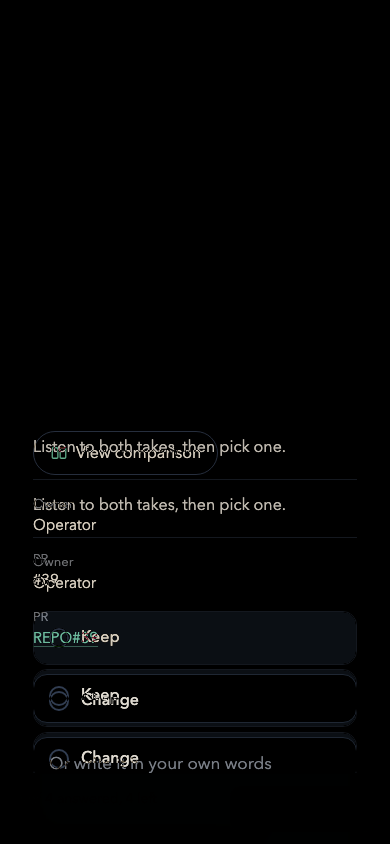
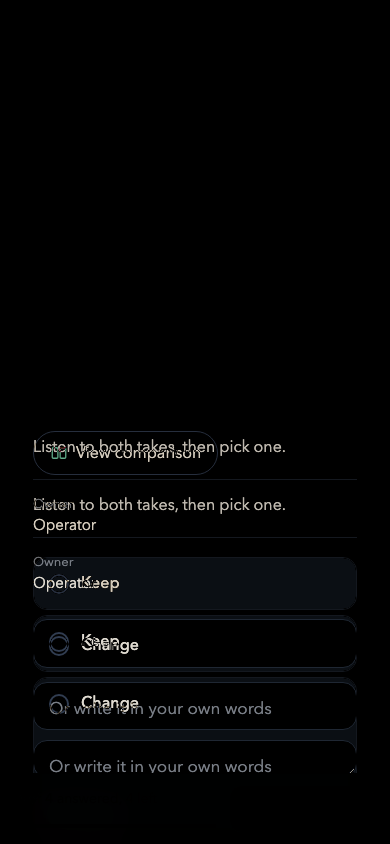
refactor(audio-dashboard): move PR-link rendering out of the comparison PR
Canon #9 split: this PR keeps only the AD-15 comparison dialog. The rail href
anchors, findBareReferences and the build bare-ref check move to their own PR
from master. Proof stills are recaptured without the PR-link change.

Changed region(s): [[0.0615, 0.6469, 0.8923, 0.9242], [0.8923, 0.8009, 0.9231, 0.8626]]

diff --git a/skills/golem-powers/audio-dashboard/templates/decision-flow/decision-flow.css b/skills/golem-powers/audio-dashboard/templates/decision-flow/decision-flow.css
@@ -357,10 +357,6 @@ body[data-view="story"] .df-chip .df-answer-status{position:relative;z-index:1;f
 body[data-view="story"] .df-chip.is-answered .df-answer-status,body[data-view="story"] .df-chip[aria-current="true"] .df-answer-status{color:var(--ink)}
 body[data-view="story"] .df-chip .df-note-count{position:absolute;right:0;top:-2px;z-index:2;min-width:13px;height:13px;padding:0 2px;font-size:10px}
 
-/* Rail links: a linked PR reads as repo#number, never a bare number. */
-.df-rail-link{color:var(--glass);text-decoration-color:rgba(121,207,194,.45);text-underline-offset:3px;overflow-wrap:anywhere}
-@media(hover:hover) and (pointer:fine){.df-rail-link:hover{color:var(--moon);text-decoration-color:currentColor}}
-.df-rail-ref{color:var(--muted);font-size:13px;font-variant-numeric:tabular-nums}
 
 /* Comparison: one shared dialog that always settles - loaded, or a failure with Retry and Back. */
 .df-compare-open{display:inline-flex;align-items:center;gap:8px;min-height:44px;margin:14px 0 0;padding:0 16px;border:1px solid var(--line-strong);border-radius:999px;background:transparent;color:var(--moon);cursor:pointer;transition:transform 160ms ease-out,border-color 160ms ease}

diff --git a/skills/golem-powers/audio-dashboard/evals/adx2-visual-proof.py b/skills/golem-powers/audio-dashboard/evals/adx2-visual-proof.py
@@ -1,4 +1,4 @@
-"""Compose ADX2 (AD-15/AD-16) proof: before/after stills, pixel diffs and frame-sequence GIFs.
+"""Compose ADX2a (AD-15) proof: before/after stills, pixel diffs and frame-sequence GIFs.
 Run the browser eval with ADX2_OUTPUT=docs.local/adx2-proof/after, and capture the same synthetic spec
 with origin/master's renderer into docs.local/adx2-proof/before/{1280,390}-card.png, before this script.
 """

diff --git a/skills/golem-powers/audio-dashboard/references/card-format.md b/skills/golem-powers/audio-dashboard/references/card-format.md
@@ -1,6 +1,6 @@
 # Card detail affordances
 
-Attribution: Etan, 2026-10-28 dashboard feedback (AD-14 to AD-16).
+Attribution: Etan, 2026-10-28 dashboard feedback.
 
 A card without a visualization must not have a **View details** expander.
 Repeating its existing text adds no useful detail. Either offer no secondary
@@ -43,16 +43,12 @@ or text-only element fails. A URL pointing back to the dashboard itself must
 include such a fragment; a whole-page self-reference fails. No scripts execute
 and no external pages are fetched.
 
-## Comparisons and references
+## Comparisons
+
+Attribution: Etan, 2026-10-28 dashboard feedback (AD-15).
 
 A decision-flow card declares a comparison with `comparison: { url, label?,
 title?, timeoutMs? }`. The renderer supplies the dialog. It shows Loading, then
 the page, or a failure message with Retry and Back once the frame errors or
 `timeoutMs` passes (default 10 s). It never waits forever. Retry loads a fresh
 frame, and a late event from an earlier attempt is ignored.
-
-A card that names an issue or PR links it. Supply the repository-qualified URL
-as a rail `href`: `{ "label": "PR", "value": "#39", "href":
-"https://github.com/OWNER/REPO/pull/39" }`. The producer must already know the
-repository; never infer one from a bare number. `build-dashboard` rejects any
-`#N` on a card that has no matching linked rail row.

diff --git a/skills/golem-powers/audio-dashboard/SKILL.md b/skills/golem-powers/audio-dashboard/SKILL.md
@@ -318,19 +318,11 @@ decision's non-empty `sceneIds` array.
     { "id": "d1", "rank": 1, "title": "Decision one", "status": "OPEN",
       "body": "Choose the path.", "options": ["Option A", "Option B"],
       "sceneIds": ["d1q", "d1a"],
-      "rail": [{ "label": "Owner", "value": "Operator" },
-               { "label": "PR", "value": "#39", "href": "https://github.com/OWNER/REPO/pull/39" }],
+      "rail": [{ "label": "Owner", "value": "Operator" }],
       "comparison": { "url": "visuals/d1.html", "label": "View comparison", "timeoutMs": 10000 } }
   ]
 }
 ```
-
-**Issue and PR references must be links.** Any `#N` a card shows needs a rail row
-on that card whose `href` is the repository-qualified PR/issue URL the producer
-already has. Never infer a repository from a bare number. The build fails on an
-unlinked `#N`, rejects a value whose number contradicts its GitHub `href`, and
-renders GitHub links as `repo#N`. Only `http(s)` hrefs become anchors; anything
-else, including `javascript:` and `data:`, stays plain text.
 
 **Comparisons settle.** `comparison.url` is a relative page inside the dashboard
 directory (no scheme, no leading `/`). It opens in a shared dialog that shows
